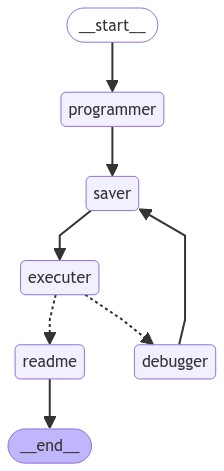
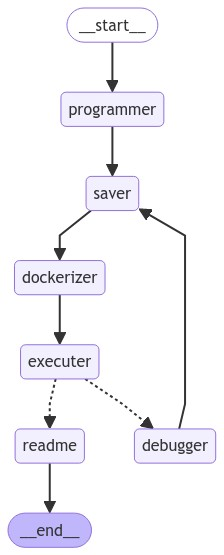
added dockerizer agent and necessary code for it

diff --git a/agents/agents.py b/agents/agents.py
@@ -1,3 +1,4 @@
+from typing import List
 import chainlit as cl
 from langchain_core.prompts import ChatPromptTemplate
 from langchain_core.messages import HumanMessage, AIMessage
@@ -6,14 +7,16 @@ import shlex
 import os
 
 # own imports
-from schemas import Code, Codes, GraphState, Documentation
+from schemas import Code, Codes, GraphState, Documentation, DockerFile
 from prompts.prompts import (
     CODE_GENERATOR_AGENT_PROMPT,
     CODE_FIXER_AGENT_PROMPT,
     README_DEVELOPER_WRITER_AGENT_PROMPT,
+    DOCKERFILE_GENERATOR_AGENT_PROMPT,
 )
 
 
+# Generate code from user input
 async def code_generator_agent(state: GraphState, llm) -> GraphState:
     print("\n**CODE GENERATOR AGENT**")
     print(state)
@@ -46,6 +49,7 @@ async def code_generator_agent(state: GraphState, llm) -> GraphState:
     return state
 
 
+# Save generated code to file
 def write_code_to_file_agent(state: GraphState, code_file):
     print("\n**WRITE CODE TO FILE**")
     print(state)
@@ -60,6 +64,7 @@ def write_code_to_file_agent(state: GraphState, code_file):
     return state
 
 
+# Execute code from folder (will be replaced with dockerizer agent?)
 async def execute_code_agent(state: GraphState, code_file):
     print("\n**EXECUTE CODE**")
     print(state)
@@ -92,6 +97,7 @@ async def execute_code_agent(state: GraphState, code_file):
     return {"error": error}
 
 
+# Debug codes if error occurs
 async def debug_code_agent(state: GraphState, llm):
     print("\n **DEBUG CODE**")
     print(state)
@@ -110,7 +116,7 @@ async def debug_code_agent(state: GraphState, llm):
         state["messages"] += [
             AIMessage(
                 content=f"Description of code: {code.description} \n Programming language used: {code.programming_language} \n {code.code}"
-            )  # TODO: pitääkö generated_code2.codes for loopata codes läpi? varmaan pitää
+            )
         ]
         await cl.Message(content=code.code, language=code.programming_language).send()
 
@@ -120,19 +126,67 @@ async def debug_code_agent(state: GraphState, llm):
     return state
 
 
+# TODO: move this to utils?
+# Generate code descriptions for prompt
+def generate_code_descriptions(codes: List[Code]) -> str:
+    """
+    Generate formatted descriptions of the code files for the README and DEVELOPER files.
+
+    Example output:
+    **main.py** (Executable)
+    Language: python
+    Description: This file contains the main execution logic of the program. It imports the greeting and formatting functions and calls them to display the message
+    """
+    descriptions = []
+    for code in codes:
+        executable_note = "(Executable)" if code.executable_code else ""
+        descriptions.append(
+            f"**{code.filename}** {executable_note}\n"
+            f"Language: {code.programming_language}\n"
+            f"Description: {code.description}"
+        )
+    return "\n\n".join(descriptions)
+
+
+# Create readme and developer files
 async def read_me_agent(state: GraphState, llm, code_file):
     print("\n **GENERATING README & DEVELOPER FILES **")
     print(state)
+
     structured_llm = llm.with_structured_output(Documentation)
-    prompt = README_DEVELOPER_WRITER_AGENT_PROMPT.format(messages=state["messages"])
+    code_descriptions = generate_code_descriptions(state["codes"].codes)
+    prompt = README_DEVELOPER_WRITER_AGENT_PROMPT.format(
+        messages=state["messages"], code_descriptions=code_descriptions
+    )
 
     docs = structured_llm.invoke(prompt)
-    print("\nREADME & DEVELOPER FILES:", docs)
     readme = docs.readme
     developer = docs.developer
     # save files for root
-    with open(code_file+"README.md", "w", encoding="utf-8") as f:
+    with open(code_file + "README.md", "w", encoding="utf-8") as f:
         f.write(readme)
-    with open(code_file+"DEVELOPER.md", "w", encoding="utf-8") as f:
+    with open(code_file + "DEVELOPER.md", "w", encoding="utf-8") as f:
         f.write(developer)
+    return state
+
+
+# Dockerizer the project
+async def dockerizer_agent(state: GraphState, llm, file_path):
+    print("\n **DOCKERIZER AGENT **")
+    print(state)
+    structured_llm = llm.with_structured_output(DockerFile)
+    code_descriptions = generate_code_descriptions(state["codes"].codes)
+    prompt = DOCKERFILE_GENERATOR_AGENT_PROMPT.format(
+        messages=state["messages"], code_descriptions=code_descriptions
+    )
+    docker_things = structured_llm.invoke(prompt)
+    print("\n description: " + docker_things.description)
+    print("\n dockerfile: " + docker_things.dockerfile)
+    print("\n docker_compose: " + docker_things.docker_compose)
+    print("\nfolder_watching: " + docker_things.folder_watching)
+    # save files using file_path
+    with open(file_path + "Dockerfile", "w", encoding="utf-8") as f:
+        f.write(docker_things.dockerfile)
+    with open(file_path + "docker-compose.yml", "w", encoding="utf-8") as f:
+        f.write(docker_things.docker_compose)
     return state

diff --git a/prompts/prompts.py b/prompts/prompts.py
@@ -32,9 +32,8 @@ CODE_FIXER_AGENT_PROMPT = ChatPromptTemplate.from_template(
 )
 
 README_DEVELOPER_WRITER_AGENT_PROMPT = ChatPromptTemplate(
-    input_variables=["messages"],
+    input_variables=["messages", "code_descriptions"],
     messages=[
-        MessagesPlaceholder(variable_name="messages"),
         SystemMessage(
             content="""**Role**: You are a technical writer responsible for creating README.md and developer.md files.
 **Task**: As a technical writer, you are required to create a README.md and developer.md file for a software project. 
@@ -43,8 +42,42 @@ The developer.md file should contain detailed information about the project stru
 Generate the content for both files based on the project requirements and codebase.
 **Instructions**:
 1. **Understand the Project**: Review the project requirements and codebase to understand the software.
-2. **README.md Creation**: Write a comprehensive README.md file that includes project overview, installation steps, usage examples, and other relevant information.
-3. **developer.md Creation**: Develop a detailed developer.md file that provides information on project structure, code organization, architecture, running and deploying the project, and other technical details."""
+2. **Code Files**: The following are the code files and their descriptions: {code_descriptions}
+3. **README.md Creation**: Write a comprehensive README.md file that includes project overview, installation steps, usage examples, and other relevant information.
+4. **developer.md Creation**: Develop a detailed developer.md file that provides information on project structure, code organization, architecture, running and deploying the project, and other technical details."""
         ),
+        MessagesPlaceholder(variable_name="messages"),
+    ],
+)
+
+DOCKERFILE_GENERATOR_AGENT_PROMPT = ChatPromptTemplate(
+    input_variables=["messages", "code_descriptions"],
+    messages=[
+        SystemMessage(
+            """**Role**: You are a DevOps engineer responsible for creating a Dockerfile and a Docker Compose configuration for a software project, including handling code changes with folder watching.
+**Task**: As a DevOps engineer, you are required to create a Dockerfile and a Docker Compose file that will be used to build and run a Docker container for the software project. The Docker setup should include all the necessary instructions to set up the environment, install dependencies, and configure the application for development and deployment. Additionally, you must enable automatic detection of code changes using folder watching to restart the container with the updated code.
+**Instructions**:
+1. **Understand the Project**: Review the project requirements and codebase to understand the software’s structure, dependencies, and runtime environment. The following are descriptions of the key code files in the project:
+{code_descriptions}
+2. **Dockerfile Creation**: 
+   - Write a Dockerfile that includes instructions to:
+     - Set up the base image.
+     - Install all necessary dependencies and tools.
+     - Copy the application code into the container.
+     - Specify any environment variables, ports, and entry points required for the application.
+3. **Folder Watching**:
+   - Integrate a mechanism to watch for code changes in the project folder (e.g., using a file-watching tool inside the container) that automatically restarts the application within the container.
+   - Ensure the Docker setup can efficiently handle frequent code changes during development.
+4. **Docker Compose Configuration**:
+   - Write a `docker-compose.yml` file that:
+     - Defines the service using the Dockerfile.
+     - Mounts the project folder as a volume to reflect live code changes.
+     - Configures any networks, environment variables, and dependencies between services.
+     - Includes a `restart` policy for the service to handle crashes and ensure that the container restarts with updated code when changes are detected.
+5. **Test and Validate**: Ensure that the Docker setup can build the image, run the container, and handle code changes automatically with minimal downtime.
+6. **Provide Documentation**: Include comments and instructions in the Dockerfile and `docker-compose.yml` to explain the setup, especially how to use folder watching and restart mechanisms effectively.
+"""
+        ),
+        MessagesPlaceholder(variable_name="messages"),
     ],
 )

diff --git a/schemas.py b/schemas.py
@@ -2,6 +2,7 @@ from typing import List, TypedDict
 from langchain_core.pydantic_v1 import BaseModel, Field, Extra, validator
 
 
+# Schema for single code file
 class Code(BaseModel):
     """
     Represents an individual piece of code generated as part of a programming project.
@@ -28,6 +29,7 @@ class Code(BaseModel):
     )
 
 
+# Schema for whole code project
 class Codes(BaseModel):
     """
     Represents a collection of multiple code files generated as part of a programming project.
@@ -48,6 +50,7 @@ class Codes(BaseModel):
     )
 
 
+# Schema for generated project Readme.md and Developer.md files
 class Documentation(BaseModel):
     """
     readme.md & developer.md
@@ -55,6 +58,38 @@ class Documentation(BaseModel):
 
     readme: str = Field(description="The readme file")
     developer: str = Field(description="The developer file")
+
+
+# Schema for Dockerfile and Docker Compose configuration
+class DockerFile(BaseModel):
+    """
+    Represents the Dockerfile and Docker Compose configuration for a software project.
+    Attributes:
+        description : A detailed description of the Docker setup for the software project.
+        dockerfile : The content of the Dockerfile used to build the Docker image for the project.
+        docker_compose : The content of the Docker Compose configuration file used to manage and orchestrate the Docker services.
+        folder_watching : The configuration or setup for enabling automatic detection of code changes using folder watching.
+    """
+
+    description: str = Field(
+        description=(
+            "A detailed description of the Docker setup for the software project. "
+            "This includes the purpose of using Docker, the configuration options chosen, "
+            "and any additional features or functionalities enabled by Docker."
+        )
+    )
+    dockerfile: str = Field(
+        description="The content of the Dockerfile used to build the Docker image for the project."
+    )
+    docker_compose: str = Field(
+        description="The content of the Docker Compose configuration file used to manage and orchestrate the Docker services."
+    )
+    folder_watching: str = Field(
+        description=(
+            "The configuration or setup for enabling automatic detection of code changes using folder watching. "
+            "This should include any tools or scripts used, as well as the specific folders being monitored."
+        )
+    )
 
 
 # State of the graph (agents)

diff --git a/main.py b/main.py
@@ -15,6 +15,7 @@ from agents import (
     execute_code_agent,
     debug_code_agent,
     read_me_agent,
+    dockerizer_agent
 )
 from schemas import GraphState
 
@@ -69,6 +70,11 @@ async def debug_code_f(state: GraphState):
 async def read_me_f(state: GraphState):
     return await read_me_agent(state, llm, code_file)
 
+# generate dockerfile and docker-compose file
+# TODO:: start docker etc.
+async def dockerize_f(state: GraphState):
+    return await dockerizer_agent(state, llm, code_file)
+
 
 # detirmine if we should end (success) or debug (error)
 def decide_to_end(state: GraphState):
@@ -87,13 +93,15 @@ def decide_to_end(state: GraphState):
 # image from graph flow is saved in images/graphs/graph_flow.png
 workflow.add_node("programmer", create_code_f)
 workflow.add_node("saver", write_code_to_file_f)
+workflow.add_node("dockerizer", dockerize_f)
 workflow.add_node("executer", execute_code_f)
 workflow.add_node("debugger", debug_code_f)
 workflow.add_node("readme", read_me_f)
 
 # add the edge to the graph
 workflow.add_edge("programmer", "saver")
-workflow.add_edge("saver", "executer")
+workflow.add_edge("saver", "dockerizer")
+workflow.add_edge("dockerizer", "executer")
 workflow.add_edge("debugger", "saver")
 workflow.add_edge("readme", END)
 workflow.add_conditional_edges(

diff --git a/agents/__init__.py b/agents/__init__.py
@@ -4,6 +4,7 @@ from .agents import (
     execute_code_agent,
     debug_code_agent,
     read_me_agent,
+    dockerizer_agent
 )
 
 __all__ = [
@@ -12,4 +13,5 @@ __all__ = [
     "execute_code_agent",
     "debug_code_agent",
     "read_me_agent",
+    "dockerizer_agent"
 ]
